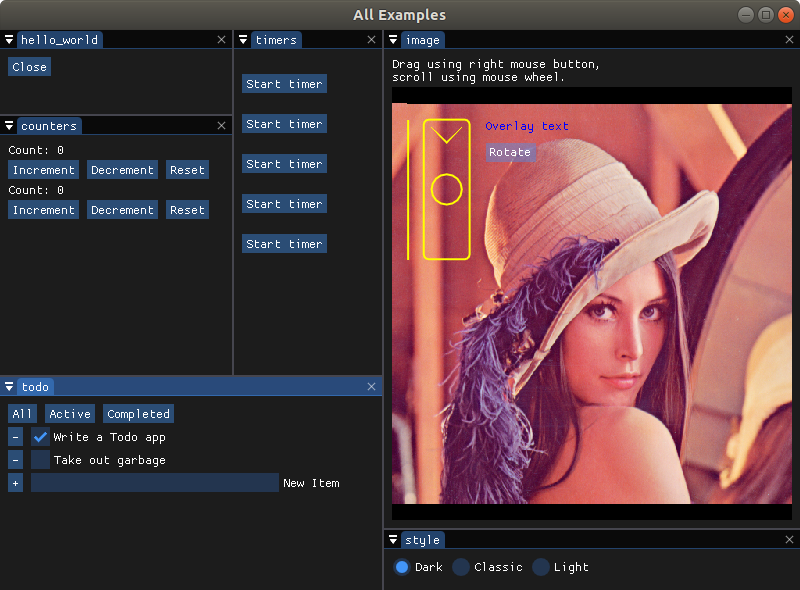
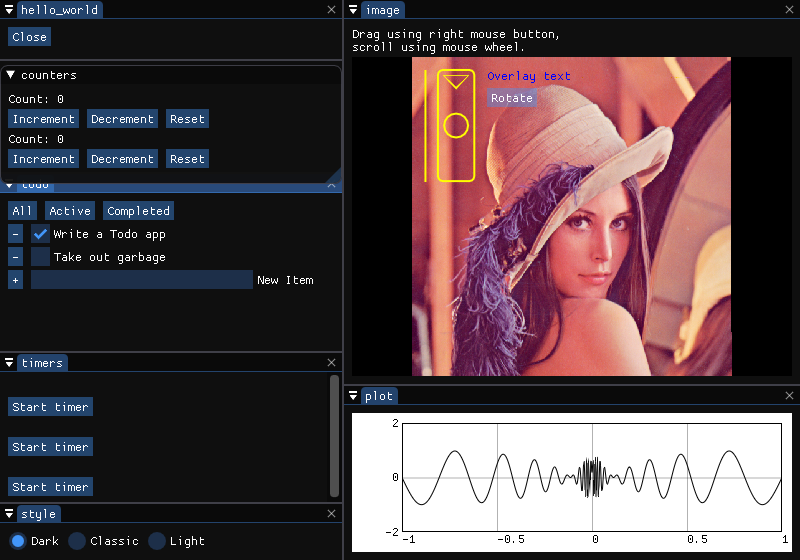
Re-organize examples.

diff --git a/examples/plot.py b/examples/plot.py
@@ -4,68 +4,17 @@ import concur as c
 from PIL import Image
 import numpy as np
 
-def graph(show_polyline, n_verts, xlim, tf):
+def graph(tf):
     while True:
-        x = np.linspace(*xlim, n_verts, dtype=np.float32)
+        x = np.linspace(-1, 1, 1000)
         y = np.sin(np.log2(np.abs(x)) * 10) * np.cos(np.log2(np.abs(x)) / 2)
-        pts = np.stack([x, y]).T
-
-        yield from c.optional(show_polyline, c.draw.polyline,
-            pts,
-            (0,0,0,1), thickness=1,
-            tf=tf)
+        return c.draw.polyline(np.stack([x, y]).T, (0,0,0,1), tf=tf)
 
 
 def app():
     view = c.plot.Frame((-1, 2), (1, -2), keep_aspect=False, fix_axis='y')
-    show_polyline = True
-    n_verts = 1e4
-    adaptive_bounds = False
-
     while True:
-        polyline_opts = lambda: c.orr([
-            c.slider_float("n_verts", n_verts, 10, 1e5, power=10, format="%.0f"),
-            c.checkbox("Adaptive Bounds", adaptive_bounds),
-            ])
-        tag, value = yield from c.orr([
-            c.window("Graph", c.orr([
-                c.plot.frame("Frame", view, c.partial(
-                    graph, show_polyline, int(n_verts),
-                    (view.left, view.right) if adaptive_bounds else (-1, 1)))
-                ])),
-            c.window("Controls", c.orr([
-                c.radio_button("Keep Aspect", view.keep_aspect),
-                c.radio_button("Fix X", view.fix_axis == 'x'),
-                c.radio_button("Fix Y", view.fix_axis == 'y'),
-                c.button("Reset View"),
-                c.separator(),
-
-                c.checkbox("Show Polyline", show_polyline),
-                c.optional(show_polyline, polyline_opts),
-                ])),
-            ])
-        if tag == "Frame":
-            view = value
-            xlim = (view.left, view.right) if adaptive_bounds else (-1, 0)
-        elif tag == "Reset View":
-            view.reset_view()
-        elif tag == "Keep Aspect":
-            view.keep_aspect = abs((view.bottom - view.top) / (view.right - view.left))
-            view.fix_axis = None
-        elif tag == "Fix X":
-            view.keep_aspect = False
-            view.fix_axis = 'x'
-        elif tag == "Fix Y":
-            view.keep_aspect = False
-            view.fix_axis = 'y'
-        elif tag == "Show Polyline":
-            show_polyline = value
-        elif tag == "n_verts":
-            n_verts = value
-        elif tag == "Adaptive Bounds":
-            adaptive_bounds = value
-            xlim = (view.left, view.right) if adaptive_bounds else (-1, 0)
-
+        _, view = yield from c.plot.frame("Frame", view, graph)
         yield
 
 

diff --git a/examples/extra/widgets.py b/examples/extra/widgets.py
@@ -1,0 +1,50 @@
+#!/usr/bin/env python3
+
+"""Assortment of various widgets for testing purposes."""
+
+
+import concur as c
+from PIL import Image
+import glfw
+
+
+def app():
+    im1 = c.Image(Image.open("examples/lenna.png"))
+    im2 = c.Image(Image.open("examples/lenna.png"))
+
+    while True:
+        k, v = yield from c.orr([
+            c.button("Hello,"),
+            c.button("world!"),
+            c.orr_same_line([
+                c.text("Hello,"),
+                c.nothing(),
+                c.text_tooltip("Text tooltip", c.text("world!")),
+                c.text_tooltip("Orr tooltip", c.orr([
+                    c.text_tooltip("Button tooltip", c.button("Button1")),
+                    c.button("Button2"),
+                    ])),
+                c.orr([
+                    c.button("Button3"),
+                    c.button("Button4"),
+                    ]),
+                c.text("Finish line."),
+                ]),
+            c.draggable("Drag", c.orr([c.button("Draggable Button"), c.forever(c.button, "Another")])),
+            c.input_text("Hello", "world!", 123),
+            c.collapsing_header("Image", c.orr([
+                c.tooltip(c.orr([c.text("Hello!"), c.image("", im1, width=300, height=200), c.event(("Key", "Tooltip value"))]), c.image("Im1", im1, width=30, height=20)),
+                c.image("Im2", im2, width=30, height=20),
+                ])),
+            c.input_text("Hello", "world!", 123),
+            c.key_pressed("Key", glfw.KEY_SPACE),
+            ])
+        if k == "Im1":
+            im1 = v
+        if k == "Im2":
+            im2 = v
+        print(k, v)
+        yield
+
+if __name__ == "__main__":
+    c.main("Counter", app(), 500, 500)

diff --git a/examples/todo.py b/examples/todo.py
@@ -14,24 +14,22 @@ def app():
     edited = ""
 
     while True:
-        action, value = yield from c.orr([
+        tag, value = yield from c.orr([
             c.orr_same_line([c.button("All"), c.button("Active"), c.button("Completed")]),
-            c.orr([c.tag(i, item(s, a)) for i, (s, a) in enumerate(todos) if a in disp]),
+            c.orr([c.tag_value(i, item(s, a)) for i, (s, a) in enumerate(todos) if a in disp]),
             c.orr_same_line([c.button("+"), c.input_text("New Item", edited, 30)]),
             ])
-        # print(action, value)
-        if action == "New Item":
+        if tag == "New Item":
             edited = value
-        elif action == "+" and edited:
+        elif tag == "+" and edited:
             todos.append((edited, False))
             edited = ""
-        elif action in ["All", "Active", "Completed"]:
-            disp = dict(All=[True, False], Active=[False], Completed=[True])[action]
-        elif isinstance(action, int):
-            if value[0] == '-':
-                del todos[action]
-            elif value[0] == 'toggle':
-                todos[action] = todos[action][0], value[1]
+        elif tag in ["All", "Active", "Completed"]:
+            disp = dict(All=[True, False], Active=[False], Completed=[True])[tag]
+        elif tag == "-":
+            del todos[value[0]]
+        elif tag == "toggle":
+            todos[value[0]] = todos[value[0]][0], value[1]
         yield
 
 

diff --git a/examples/extra/plot_image.py b/examples/extra/plot_image.py
@@ -1,24 +1,28 @@
 #!/usr/bin/env python3
 
+
+"""Show image drawing inside graphs."""
+
+
 import concur as c
 from PIL import Image
 import numpy as np
 
 def graph(tex_id, tex_w, tex_h, tf):
-    x = np.linspace(0, 512, 10000, dtype=np.float32)
-    y = np.sin(np.log2(np.abs(x)) * 10) * np.cos(np.log2(np.abs(x)) / 2) * 256 + 256
+    x = np.linspace(-512, 512, 10000, dtype=np.float32)
+    y = np.sin(np.log2(np.abs(x)) * 10) * np.cos(np.log2(np.abs(x)) / 2) * 100 + 100
     pts = np.stack([x, y]).T
 
     return c.orr([
         c.draw.image(tex_id, tex_w, tex_h, tf=tf),
-        c.draw.polyline(pts, (1,1,0,1), thickness=1, tf=tf),
+        c.draw.polyline(pts, (0,0,0,1), thickness=1, tf=tf),
         c.draw.rect(0, 0, 512, 512, (1,1,1,1), tf=tf),
         ])
 
 
 def app():
     view = c.plot.Frame((0, 0), (512, 512), keep_aspect=True)
-    arr = np.array(Image.open("examples/lenna.png"))
+    arr = np.array(Image.open("examples/lenna.png").convert('RGBA')) # RGBA for transparent backgound
     tex = c.texture(arr)
 
     while True:

diff --git a/examples/extra/polyline.py b/examples/extra/polyline.py
@@ -1,14 +1,18 @@
 #!/usr/bin/env python3
 
+"""Show line rendering issues in ImGui."""
+
+
 import concur as c
 from PIL import Image
 import numpy as np
 import imgui
 
+
 def graph(tex_id, tex_w, tex_h, tf):
     return c.orr([
-        c.draw.polyline([(-1, 0), (0, 0), (0, -0.3), (0.3, 0), (1, 0.1), (-1, 0.5), (-1, 0.2)], (0,0,0,0.5), closed=True, thickness=20, tf=tf),
-        # c.draw.polyline(np.random.rand(100000,2), (0,0,1,1), thickness=4, tf=tf),
+        c.draw.polyline([(-1, 0), (0, 0), (0, -0.3), (0.3, 0), (1, 0.1), (-1, 0.5), (-1, 0.2)], (0,0,0,0.5),
+        closed=True, thickness=20, tf=tf),
         ])
 
 

diff --git a/examples/all.py b/examples/all.py
@@ -1,13 +1,13 @@
 #!/usr/bin/env python3
 
 import concur as c
-import counters, hello_world, image, style, timers, todo
+import counters, hello_world, image, plot, style, timers, todo
 
 
 def app():
     return c.orr([c.window(module.__name__, module.app()) for module in
-        [counters, hello_world, image, style, timers, todo]])
+        [counters, hello_world, image, plot, style, timers, todo]])
 
 
 if __name__ == "__main__":
-    c.main("All Examples", app(), 800, 560)
+    c.main("All Examples", app(), 800, 600)

diff --git a/examples/timers.py b/examples/timers.py
@@ -16,7 +16,7 @@ def timer():
 
 
 def app():
-    return c.orr([c.forever(timer) for _ in range(5)])
+    return c.orr([c.forever(timer) for _ in range(3)])
 
 
 if __name__ == "__main__":

diff --git a/examples/extra/columns.py b/examples/extra/columns.py
@@ -1,5 +1,8 @@
 #!/usr/bin/env python3
 
+"""Simple table example using the columns API."""
+
+
 import concur as c
 
 
